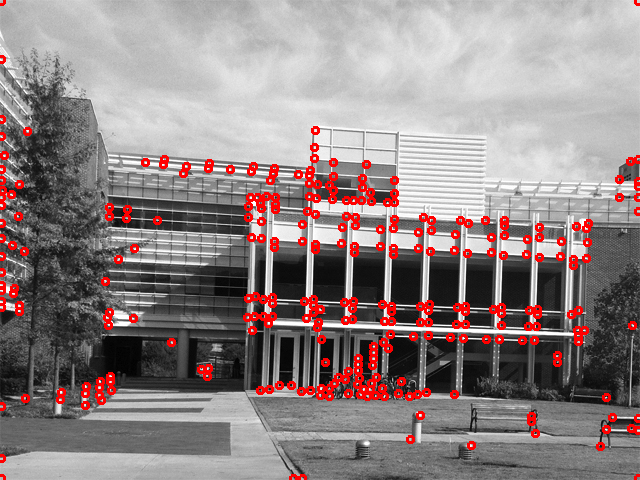
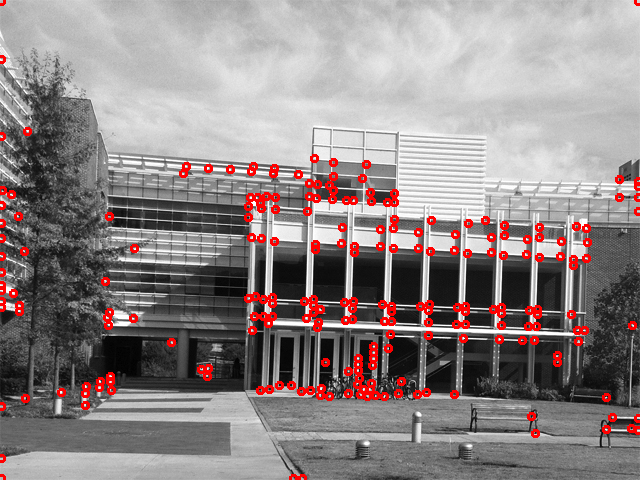
SIFT detector working

diff --git a/ps4_python_Plokhovska_Zhanneta/ps4.py b/ps4_python_Plokhovska_Zhanneta/ps4.py
@@ -65,7 +65,7 @@ def compute_harris_image(Ix, Iy):
 #################################################################################
 # Find corner points in Harris image using threshold and non-maximal suppression 
 #################################################################################
-def find_corner_points(harris_img, numcorners = 300, threshold = 0.5, nHoodSize = [1, 1]):
+def find_corner_points(harris_img, threshold = 0.5, nHoodSize = [1, 1]):
 	rows, columns = harris_img.shape
 	
 	# Optional to normalize
@@ -75,7 +75,7 @@ def find_corner_points(harris_img, numcorners = 300, threshold = 0.5, nHoodSize 
 	max_row, max_column = np.unravel_index(np.argmax(harris_img), (rows, columns))
 	min_row, min_column = np.unravel_index(np.argmin(harris_img), (rows, columns))
 	threshold = threshold * (harris_img[max_row][max_column] + harris_img[min_row][min_column])
-	print "\nThreshold: {} Max: {} Min: {}\n".format(threshold, harris_img[max_row][max_column], harris_img[min_row][min_column])
+	#print "\nThreshold: {} Max: {} Min: {}\n".format(threshold, harris_img[max_row][max_column], harris_img[min_row][min_column])
 	
 	# Default nHoodSize
 	height, width = harris_img.shape
@@ -88,8 +88,10 @@ def find_corner_points(harris_img, numcorners = 300, threshold = 0.5, nHoodSize 
 	
 	# Initialize peak indices numpeaks x 2 array
 	Q = []
-
-	for i in range(numcorners):
+	
+	numCorners = 0
+	
+	while(True):
 		# Find maximum value in Hough
 		max_row, max_column = np.unravel_index(np.argmax(harris_img), (rows, columns)) # Returns location of maximum value in harris_img
 		#print str(max_row) + " " + str(max_column)
@@ -107,11 +109,29 @@ def find_corner_points(harris_img, numcorners = 300, threshold = 0.5, nHoodSize 
 			
 			# Add peak to Q		
 			Q.append([max_row, max_column])
+			numCorners = numCorners + 1
 		else:
 			break
-	#print "\nNumber of corners: {}\n".format(i - 1)
+	#print "\nNumber of corners: {}\n".format(numCorners)
 			
-	return Q
+	return np.array(Q)
+
+def compute_keypoints(Ix, Iy, points):
+	rows, columns = Ix.shape
+	# Compute an angle for every point
+	angles = np.arctan2(points[:, 0], points[:, 1])
+	
+	keypoints = []
+	# Create list of keypoints
+	for i in range((points.shape)[0]):
+		# Set the value of _octave to 0, since all points were located at the full scale version of the image
+		point = cv2.KeyPoint(points[i][1], points[i][0], _size = 3, _angle = angles[i], _octave = 0)
+		keypoints.append(point)
+	
+	return keypoints
+
+def draw_matches():
+	print "TO DO"
 	
 def main():
 	# 1-A: Compute X and Y gradients
@@ -160,7 +180,7 @@ def main():
 	print "\n-----------------------1-C-----------------------"
 	'''
 	# Test on check
-	corner_points = find_corner_points(test_harris_image, 25, 0.5, [5, 5])
+	corner_points = find_corner_points(test_harris_image, 0.5, [5, 5])
 	# Highlight peak locations on accumulator array, save as output/ps1-2-b-1.png
 	test = cv2.cvtColor(test,cv2.COLOR_GRAY2RGB)
 	for i in range(len(corner_points)):
@@ -169,41 +189,79 @@ def main():
 	cv2.imwrite('output/test_corners.png', test)
 	'''
 	# transA
-	corner_points = find_corner_points(transA_harris_image, 300, 0.05)
+	transA_corner_points = find_corner_points(transA_harris_image, 0.35)
 	# Highlight peak locations on accumulator array, save as output/ps1-2-b-1.png
-	transA = cv2.cvtColor(transA, cv2.COLOR_GRAY2RGB)
-	for i in range(len(corner_points)):
-		cv2.circle(transA, (corner_points[i][1], corner_points[i][0]), 3, (0, 0, 255), thickness=2, lineType=8) # Draw a circle using center coordinates and radius
+	transA_draw_corner_points = cv2.cvtColor(transA, cv2.COLOR_GRAY2RGB)
+	for i in range(len(transA_corner_points)):
+		cv2.circle(transA_draw_corner_points, (transA_corner_points[i][1], transA_corner_points[i][0]), 3, (0, 0, 255), thickness=2, lineType=8) # Draw a circle using center coordinates and radius
 	# Plot/show accumulator array H, save as output/ps1-2-a-1.png
-	cv2.imwrite('output/ps4-1-c-1.png', transA)
+	cv2.imwrite('output/ps4-1-c-1.png', transA_draw_corner_points)
 	# transB
-	corner_points = find_corner_points(transB_harris_image, 300, 0.05)
+	transB_corner_points = find_corner_points(transB_harris_image, 0.30)
 	# Highlight peak locations on accumulator array, save as output/ps1-2-b-1.png
-	transB = cv2.cvtColor(transB, cv2.COLOR_GRAY2RGB)
-	for i in range(len(corner_points)):
-		cv2.circle(transB, (corner_points[i][1], corner_points[i][0]), 3, (0, 0, 255), thickness=2, lineType=8) # Draw a circle using center coordinates and radius
+	transB_draw_corner_points = cv2.cvtColor(transB, cv2.COLOR_GRAY2RGB)
+	for i in range(len(transB_corner_points)):
+		cv2.circle(transB_draw_corner_points, (transB_corner_points[i][1], transB_corner_points[i][0]), 3, (0, 0, 255), thickness=2, lineType=8) # Draw a circle using center coordinates and radius
 	# Plot/show accumulator array H, save as output/ps1-2-a-1.png
-	cv2.imwrite('output/ps4-1-c-2.png', transB)
+	cv2.imwrite('output/ps4-1-c-2.png', transB_draw_corner_points)
 	# simA
-	corner_points = find_corner_points(simA_harris_image, 300, 0.05)
+	simA_corner_points = find_corner_points(simA_harris_image, 0.25)
 	# Highlight peak locations on accumulator array, save as output/ps1-2-b-1.png
-	simA = cv2.cvtColor(simA,cv2.COLOR_GRAY2RGB)
-	for i in range(len(corner_points)):
-		cv2.circle(simA, (corner_points[i][1], corner_points[i][0]), 3, (0, 0, 255), thickness=2, lineType=8) # Draw a circle using center coordinates and radius
+	simA_draw_corner_points = cv2.cvtColor(simA,cv2.COLOR_GRAY2RGB)
+	for i in range(len(simA_corner_points)):
+		cv2.circle(simA_draw_corner_points, (simA_corner_points[i][1], simA_corner_points[i][0]), 3, (0, 0, 255), thickness=2, lineType=8) # Draw a circle using center coordinates and radius
 	# Plot/show accumulator array H, save as output/ps1-2-a-1.png
-	cv2.imwrite('output/ps4-1-c-3.png', simA)
+	cv2.imwrite('output/ps4-1-c-3.png', simA_draw_corner_points)
 	# simB
-	corner_points = find_corner_points(simB_harris_image, 300, 0.05)
+	simB_corner_points = find_corner_points(simB_harris_image, 0.20)
 	# Highlight peak locations on accumulator array, save as output/ps1-2-b-1.png
-	simB = cv2.cvtColor(simB,cv2.COLOR_GRAY2RGB)
-	for i in range(len(corner_points)):
-		cv2.circle(simB, (corner_points[i][1], corner_points[i][0]), 3, (0, 0, 255), thickness=2, lineType=8) # Draw a circle using center coordinates and radius
+	simB_draw_corner_points = cv2.cvtColor(simB,cv2.COLOR_GRAY2RGB)
+	for i in range(len(simB_corner_points)):
+		cv2.circle(simB_draw_corner_points, (simB_corner_points[i][1], simB_corner_points[i][0]), 3, (0, 0, 255), thickness=2, lineType=8) # Draw a circle using center coordinates and radius
 	# Plot/show accumulator array H, save as output/ps1-2-a-1.png
-	cv2.imwrite('output/ps4-1-c-4.png', simB)
+	cv2.imwrite('output/ps4-1-c-4.png', simB_draw_corner_points)
 	
 	# 2-A: Interest points an angles
-	print "\n-----------------------1-C-----------------------"
+	print "\n-----------------------2-A-----------------------"
+	# Calculate angles for every keypoint pair in every image
+	transA_keypoints = compute_keypoints(transA_x, transA_y, transA_corner_points)
+	transB_keypoints = compute_keypoints(transB_x, transB_y, transB_corner_points)
+	simA_keypoints = compute_keypoints(simA_x, simA_y, simA_corner_points)
+	simB_keypoints = compute_keypoints(simB_x, simB_y, simB_corner_points)
+	# Draw keypoints on image
+	transA_draw_keypoints = cv2.drawKeypoints(transA, transA_keypoints, None)
+	transB_draw_keypoints = cv2.drawKeypoints(transB, transB_keypoints, None)
+	transAB_with_keypoints = cv2.hconcat([transA_draw_keypoints, transB_draw_keypoints])
+	cv2.imwrite('output/ps4-2-a-1.png', transAB_with_keypoints)
+	simA_draw_keypoints = cv2.drawKeypoints(simA, simA_keypoints, None)
+	simB_draw_keypoints = cv2.drawKeypoints(simB, simB_keypoints, None)
+	simAB_with_keypoints = cv2.hconcat([simA_draw_keypoints, simB_draw_keypoints])
+	cv2.imwrite('output/ps4-2-a-2.png', simAB_with_keypoints)
 	
+	# 2-B: Interest points an angles
+	print "\n-----------------------2-B-----------------------"
+	# Create an instance of the class cv2.SIFT
+	sift = cv2.xfeatures2d.SIFT_create()
+	# Create BFMatcher instance
+	bf = cv2.BFMatcher()
+	# Extracting the SIFT descriptors then requires to call the SIFT.compute() function:
+	transA_points, transA_descriptors = sift.compute(transA ,transA_keypoints)
+	transB_points, transB_descriptors = sift.compute(transB ,transB_keypoints)
+	simA_points, simA_descriptors = sift.compute(simA ,simA_keypoints)
+	simB_points, simB_descriptors = sift.compute(simB , simB_keypoints)
+	# Match descriptors
+	trans_matches = bf.match(transA_descriptors, transB_descriptors)
+	sim_matches = bf.match(simA_descriptors, simB_descriptors)
+	# Sort them in order of distance
+	trans_matches = sorted(trans_matches, key = lambda x:x.distance)
+	sim_matches = sorted(sim_matches, key = lambda x:x.distance)
+	# Draw best 10 matches
+	trans_putative_pair_image = cv2.drawMatches(transA, transA_points, transB, transB_points, trans_matches[:10], None, flags=2)
+	sim_putative_pair_image = cv2.drawMatches(simA, simA_points, simB, simB_points, sim_matches[:10], None, flags=2)
+	# Save images
+	cv2.imwrite('output/ps4-2-b-1.png', trans_putative_pair_image)
+	cv2.imwrite('output/ps4-2-b-2.png', sim_putative_pair_image)
+
 	
 if __name__ == "__main__":
 	main()
